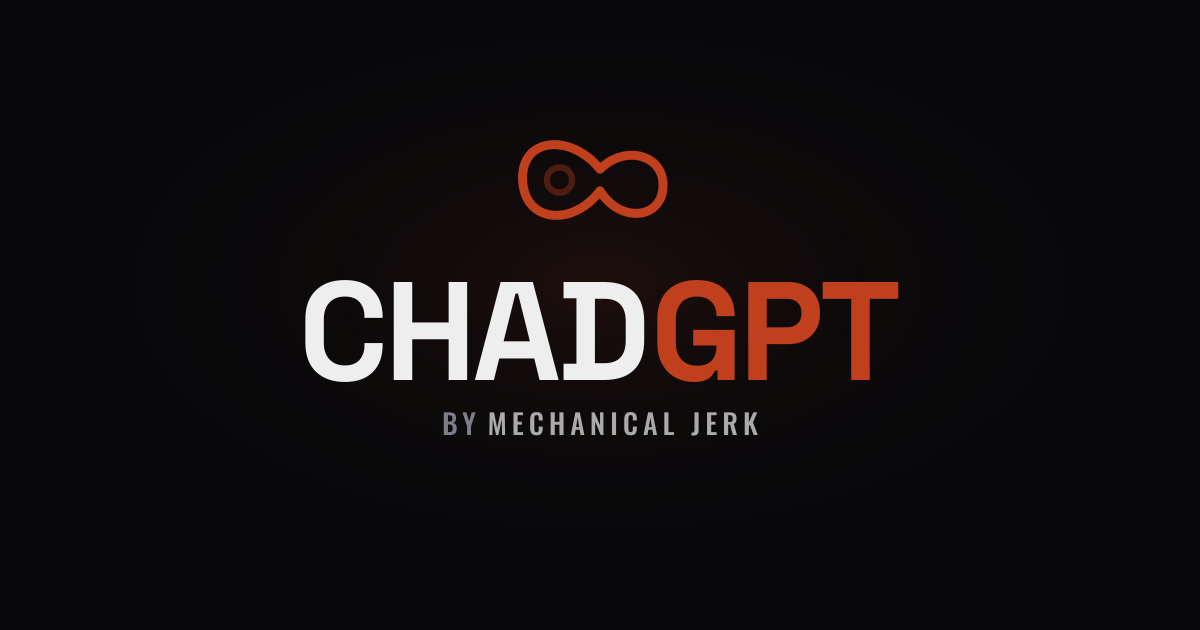
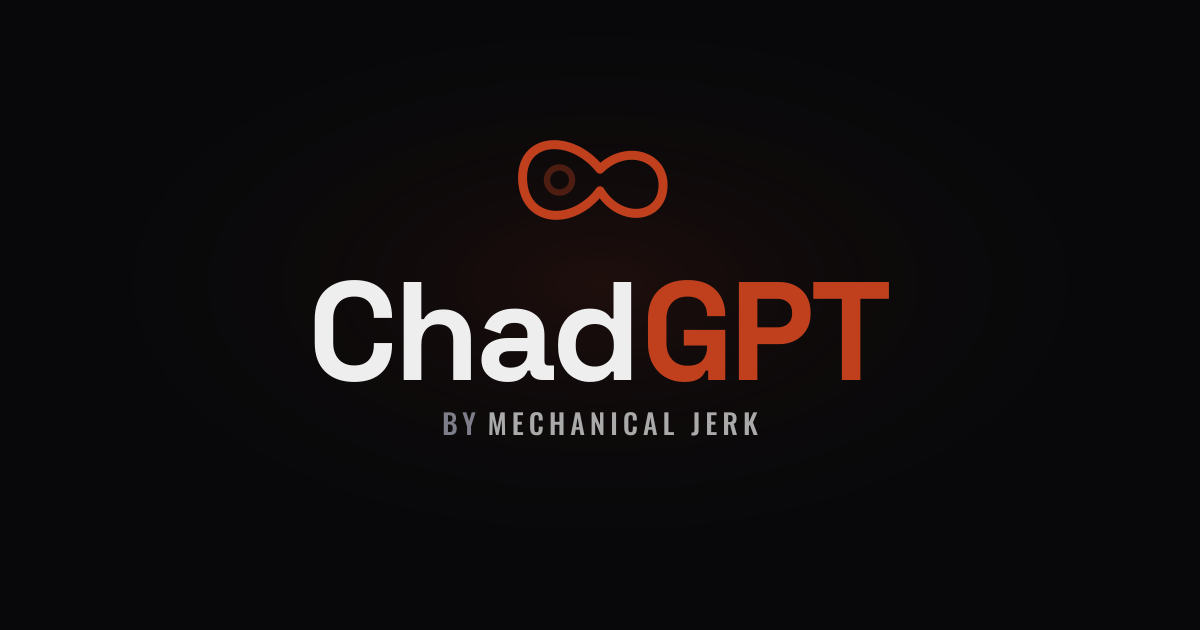
Fix ChadGPT spelling: always ChadGPT, never CHADGPT
- Hero typewriter: 'CHAD' → 'Chad' so it renders as ChadGPT
- Rebuild both OG images from fixed SVG with correct casing
- Add spelling convention to CLAUDE.md

Changed region(s): [[0.2467, 0.4222, 0.74, 0.6032], [0.74, 0.4524, 0.7708, 0.4825]]

diff --git a/public/index.html b/public/index.html
@@ -371,7 +371,7 @@ document.querySelectorAll('.nav-menu .nav-link').forEach(function(link) {
 (function() {
   var line1 = document.querySelector('h1 .line1');
   var line2 = document.querySelector('h1 .line2');
-  var text1 = 'CHAD';
+  var text1 = 'Chad';
   var text2 = 'GPT';
   var cursor = document.createElement('span');
   cursor.className = 'cursor';

diff --git a/CLAUDE.md b/CLAUDE.md
@@ -15,6 +15,7 @@ Sleek startup polish with bro energy underneath. Evolved from Moodboard C (Bro A
 - **Aesthetic**: Clean rounded corners, subtle animated gradient hero bg, no harsh patterns or clip-paths. Warmth from the fire palette, restraint from the sleek layout.
 - **Chat UI**: Rounded bot messages with left fire border, "Based"/"Cope" reaction buttons, green status dot
 - **Tone**: Looks like a legit startup at first glance — the copy does the comedy
+- **Spelling**: Always "ChadGPT" — never "CHADGPT", "Chadgpt", "ChadGpt", etc. Lowercase `chadgpt` is fine for URLs/filenames only.
 - **Symbols**: Use HTML entities (&amp;trade; &amp;copy; &#-codes) not raw unicode in HTML
 
 ## Tech Stack
@@ -30,7 +31,7 @@ Sleek startup polish with bro energy underneath. Evolved from Moodboard C (Bro A
 - `server.js` — Express app, serves `public/` static files + `POST /api/chat` endpoint
 - `public/style.css` — the one true stylesheet (graduated from hybrid experiments)
 - `public/chat.js` — chat UI logic, conversation history, typing indicator, reaction buttons
-- `public/index.html` — landing page: hero (CHADGPT typewriter), stats, ticker, features, testimonials (3 cards), pricing (4 tiers in Dogecoin), enterprise Brofessional section, live chat, final CTA, footer
+- `public/index.html` — landing page: hero (ChadGPT typewriter), stats, ticker, features, testimonials (3 cards), pricing (4 tiers in Dogecoin), enterprise Brofessional section, live chat, final CTA, footer
 - `public/chadgpt.html` — dedicated chat page at `/chadgpt` with nav, chatbot, full-width upgrade callout, footer
 - `public/og.png` — OG/social preview image for homepage (1200x630, Space Grotesk + Oswald embedded)
 - `public/og-chat.png` — OG/social preview image for chat page
